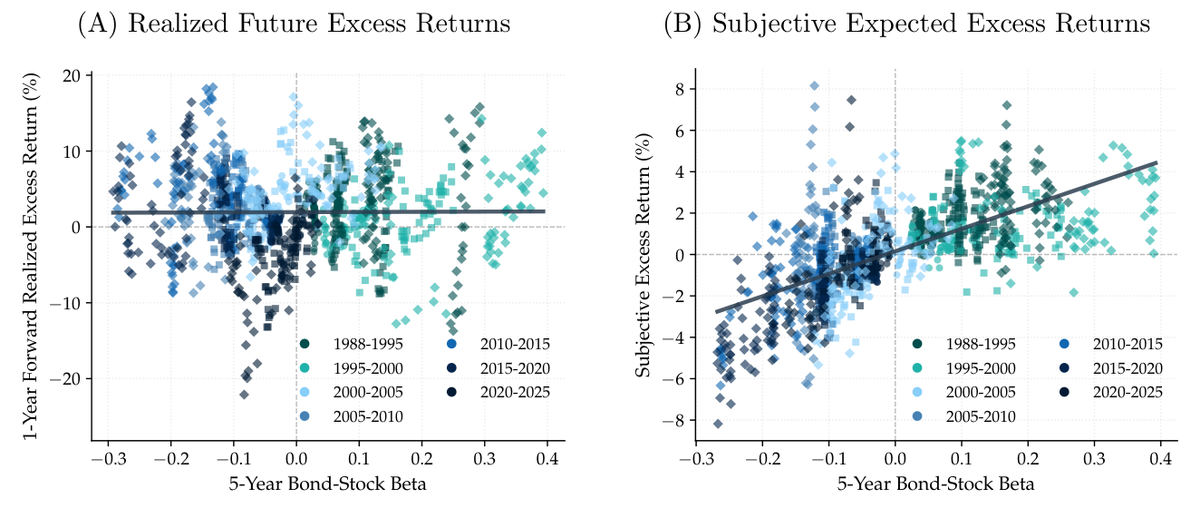
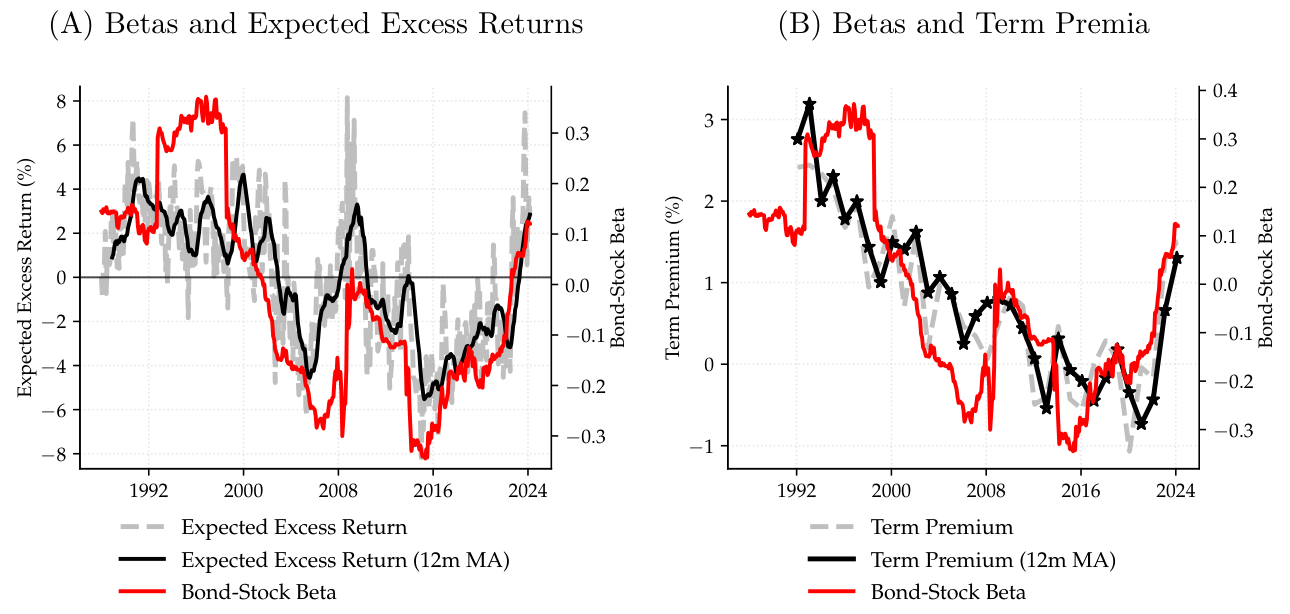
Risk and Return: new abstract and Figure 1 from October 2026 draft

diff --git a/index.html b/index.html
@@ -271,10 +271,10 @@
       </div>
       <p class="note">Conferences: NBER SI Asset Pricing, Texas Macroeconomics conference, Stanford SITE</p>
       <div class="panel"><div class="inner"><div class="panel-body">
-        <p class="abstract">As the risks of government bonds vary over time, does the compensation that investors require for holding them change? While realized excess returns show little relation to bond risk, we find that subjective expected excess returns constructed from professional forecasts of future long-term yields are tightly linked to bonds' stock market betas, consistent with a CAPM-style relation. In a U.S. month-by-maturity panel from 1988–2024, the correlation of subjective excess returns with rolling bond–stock betas is 66%. The estimated market price of risk is comparable to the equity premium and stable when controlling for time and maturity fixed effects. Realized excess returns are predicted by subjective excess returns, but this predictability is driven by higher-frequency variation and not by betas. Similar results hold in an international panel of developed countries from 1989–2024. The change in betas from positive to negative accounts for half of the decline in long-term U.S. Treasury yields from the 1980s to the 2010s and implies a negative term premium as early as 2001. During quantitative easing episodes, the price of bond risk declines, suggesting an increased investor willingness to bear risk.</p>
+        <p class="abstract">Does the compensation investors require for holding government bonds vary with their risk? We measure expected excess returns using market yields and professional forecasts of future yields, showing that they are tightly linked to a standard measure of risk: bonds' betas with respect to the stock market. In a month-by-maturity panel of U.S. Treasuries from 1988 to 2024, the correlation between expected excess returns and bond–stock betas is 67%. The correlation is driven by variation in market yields rather than forecasters' expectations. The relationship between realized excess returns and betas is weak in a univariate regression, but it becomes economically large and significant when we control for monetary-policy and macroeconomic forecast errors. Similar results obtain in an international panel of developed countries from 1989 to 2024. Our findings suggest that variation in risk premia driven by changing bond risk accounts for more than half of both the decline in U.S. long-term bond yields since the mid-1980s and their increase since 2020.</p>
         <figure>
-          <button type="button"><img src="figures/risk-return-gov-bonds.png" alt="Two scatter plots against the 5-year bond-stock beta: realized excess returns show no relation, subjective expected excess returns slope upward" loading="lazy"></button>
-          <figcaption>Realized vs. subjective expected bond excess returns against bond–stock betas</figcaption>
+          <button type="button"><img src="figures/risk-return-gov-bonds.png" alt="Two panels, 1988 to 2024: expected bond excess returns and term premia move together with the bond-stock beta" loading="lazy"></button>
+          <figcaption>Bond–stock betas, expected excess returns, and term premia</figcaption>
         </figure>
       </div></div></div>
     </article>
